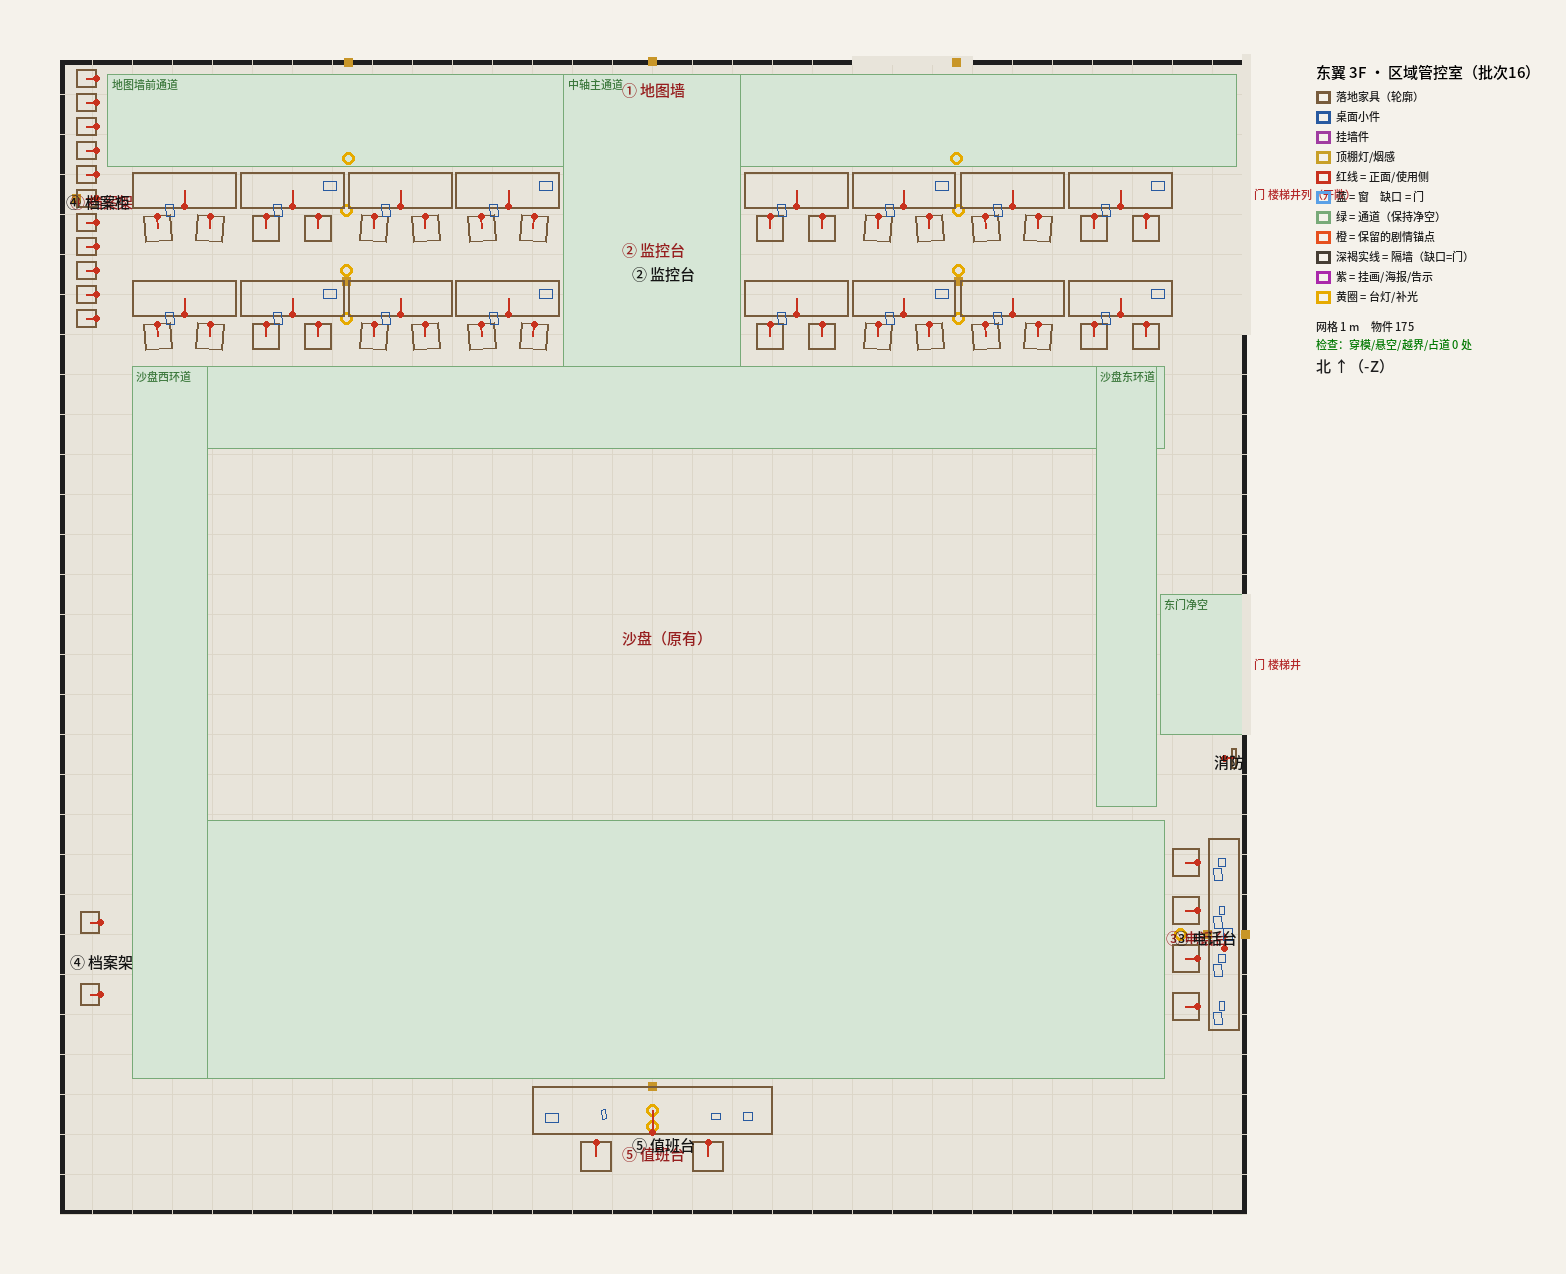
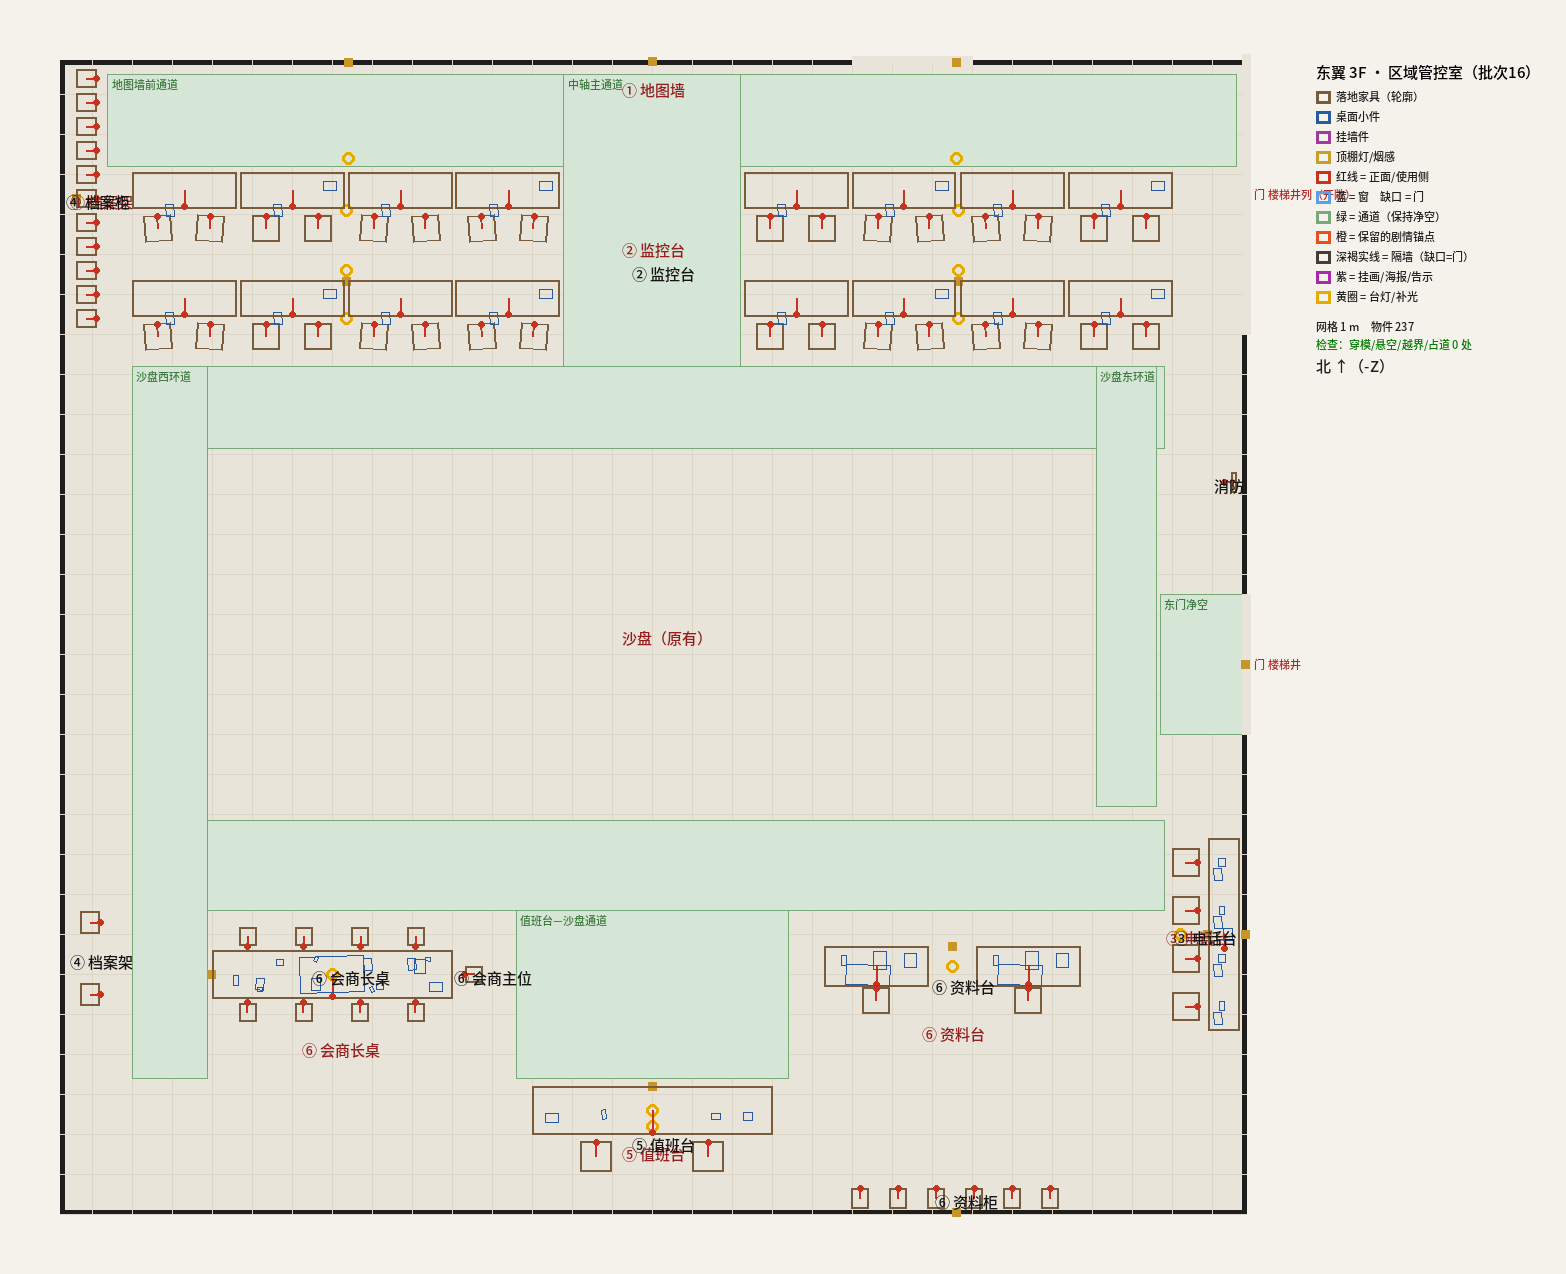
批次18：区域管控室南侧会商长桌+资料台+资料柜、东门门扇+门套+门后灯、3F 彩窗→钢框磨砂窗（r3plan 237 件 0 错）

diff --git a/src/world/r3plan.js b/src/world/r3plan.js
@@ -2384,9 +2384,9 @@ export function planZoneControl(y) {
   const room = { name: '东翼 3F · 区域管控室（批次16）', x0: 20.2, x1: 49.86, z0: -60.86, z1: -32.0, y, H,
     doors: [{ wall: 'E', a: -47.5, b: -44, label: '楼梯井' }, { wall: 'E', a: -61, b: -54, label: '楼梯井列（开敞）' }, { wall: 'N', a: 40, b: 43, label: '副本投放调度室' }],
     windows: [],
-    rooms: [['① 地图墙', 35, -60.2], ['② 监控台', 35, -56.2], ['③ 电话台', 48.6, -39.0], ['④ 档案架', 21.2, -57.4], ['⑤ 值班台', 35, -33.6], ['沙盘（原有）', 35, -46.5]],
+    rooms: [['① 地图墙', 35, -60.2], ['② 监控台', 35, -56.2], ['③ 电话台', 48.6, -39.0], ['④ 档案架', 21.2, -57.4], ['⑤ 值班台', 35, -33.6], ['沙盘（原有）', 35, -46.5], ['⑥ 会商长桌', 27, -36.2], ['⑥ 资料台', 42.5, -36.6]],
     aisles: [{ label: '地图墙前通道', x0: 21.4, x1: 49.6, z0: -60.5, z1: -58.2 }, { label: '中轴主通道', x0: 32.8, x1: 37.2, z0: -60.5, z1: -51.2 },
-      { label: '沙盘北环道', x0: 22.2, x1: 47.8, z0: -53.2, z1: -51.15 }, { label: '沙盘南环道', x0: 22.2, x1: 47.8, z0: -41.85, z1: -35.4 },
+      { label: '沙盘北环道', x0: 22.2, x1: 47.8, z0: -53.2, z1: -51.15 }, { label: '沙盘南环道', x0: 22.2, x1: 47.8, z0: -41.85, z1: -39.6 }, { label: '值班台—沙盘通道', x0: 31.6, x1: 38.4, z0: -39.6, z1: -35.4 },
       { label: '沙盘西环道', x0: 22.0, x1: 23.9, z0: -53.2, z1: -35.4 }, { label: '沙盘东环道', x0: 46.1, x1: 47.6, z0: -53.2, z1: -42.2 },
       { label: '东门净空', x0: 47.7, x1: 49.8, z0: -47.5, z1: -44 }] };
   floorZ(out, 'r3_marbleHoned', 20.3, 49.84, -60.6, -32.4, y, { border: 0.3, bmat: 'r3_stoneBorder', uv: 0.5 });
@@ -2449,7 +2449,45 @@ export function planZoneControl(y) {
     out.push({ sign: '值 班 台', sub: '交接班须签字登记', x: 35, y: y + 0.7, z: cz - 0.61, yaw: ROT.N, size: [0.34, 0.12, 0.01], tag: '铜牌', on: 'sign' });
     hang(out, '值 班 台', 35, y + 3.6, cz, 0, 1.9, 0.42, y + H);
     light(out, 35, y + 3.0, cz + 0.4, 0xfff0dc, 1.2, 6); }
-  out.push({ m: 'r2/fire_extinguisher', x: 49.55, y, z: -43.4, yaw: ROT.W, h: 0.6, tag: '消防', on: 'floor' });
+  out.push({ m: 'r2/fire_extinguisher', x: 49.55, y, z: -50.3, yaw: ROT.W, h: 0.6, tag: '消防', on: 'floor' }); // 批次18：原 −43.4 让位给东门南门扇
+  // ⑥ 批次18：南侧环道外 6 m 空地补成组陈设（zone_r3_b 看图：沙盘与值班台之间大片空地）。
+  //   西组 会商长桌（x 23.6…30.4，z −38.6…−37.4）：长桌垂直于沙盘、两侧各 4 把实木椅 + 东端主位；桌上摊开区域图、文件夹、茶杯、烟灰缸、台灯。
+  //   东组 资料台（x 39…46.2）：两张斜面资料台并排（台面放分片册子 / 图纸）+ 南墙一排 6 只铁皮资料柜 + 铜牌。中段 x 31.5…38.5 留给值班台 ↔ 沙盘通道。
+  { const cx = 27.0, cz = -38.0, top = y + 0.76;
+    out.push({ m: 'r2/conference_table_rectangular_6m', x: cx, y, z: cz, yaw: 0, fit: [6.0, 0.76, 1.2], tag: '⑥ 会商长桌', on: 'floor', col: [6.0, 0.78, 1.2] });
+    for (let i = 0; i < 4; i++) { const x = cx - 2.1 + i * 1.4;
+      out.push({ m: 'r4/exam_chair', x, y, z: cz - 0.95, yaw: 0, h: 0.84, tag: '⑥ 会商长桌', on: 'floor' });
+      out.push({ m: 'r4/exam_chair', x, y, z: cz + 0.95, yaw: Math.PI, h: 0.84, tag: '⑥ 会商长桌', on: 'floor' });
+      out.push({ m: 'r2/coffee_mug', x: x + 0.3, y: top, z: cz + (i % 2 ? -0.38 : 0.38), yaw: i, h: 0.095, tag: '⑥ 茶杯', on: 'desk' }); }
+    out.push({ m: 'r4/exam_chair', x: cx + 3.55, y, z: cz, yaw: ROT.W, h: 0.84, tag: '⑥ 会商主位', on: 'floor' });
+    out.push({ box: 'r3_mapPaper', x: cx, y: top + 0.003, z: cz, w: 1.6, h: 0.004, d: 0.9, yaw: 0.04, tag: '⑥ 摊开区域图', on: 'desk' });
+    for (const [dx, dz, m, o] of [[-2.4, 0.15, 'r2/several_folders', { h: 0.3 }], [2.2, -0.2, 'r2/document_letter_tray_documents_organizer', { w: 0.3 }], [1.2, 0.3, 'r2/ptish_exceptionally_full_ashtray', { w: 0.16 }], [-1.3, -0.3, 'r2/ptish_exceptionally_full_ashtray', { w: 0.16 }], [2.6, 0.32, 'r2/bankers_lamp', { h: 0.36 }]])
+      out.push({ m, x: cx + dx, y: top, z: cz + dz, yaw: Math.PI, ...o, tag: '⑥ 会商长桌', on: 'desk' });
+    for (const dx of [-1.8, -0.4, 0.9, 2.0]) out.push({ box: 'dz_paper', x: cx + dx, y: top + 0.003, z: cz + (dx > 0 ? -0.25 : 0.25), w: 0.21, h: 0.004, d: 0.297, yaw: dx * 0.05, tag: '⑥ 会商记录', on: 'desk' });
+    out.push({ sign: '会 商 桌', sub: '跨片区联合研判', x: cx - 3.02, y: y + 0.55, z: cz, yaw: ROT.W, size: [0.34, 0.12, 0.01], tag: '铜牌', on: 'sign' });
+    hang(out, '联 合 会 商', cx, y + 3.6, cz, 0, 1.9, 0.42, y + H);
+    light(out, cx, y + 2.8, cz, 0xfff0dc, 1.3, 6); }
+  { const cz = -38.2, top = y + 0.9;
+    for (const cx of [40.6, 44.4]) {
+      out.push({ m: 'r2/woodentable_01', x: cx, y, z: cz, yaw: 0, fit: [2.6, 0.9, 1.0], tag: '⑥ 资料台', on: 'floor', col: [2.6, 0.92, 1.0] });
+      for (const [dx, m, o] of [[-0.8, 'r2/several_folders', { h: 0.3 }], [0.1, 'r2/medieval_book_stack', { w: 0.34 }], [0.85, 'r2/document_letter_tray_documents_organizer', { w: 0.3 }]]) out.push({ m, x: cx + dx, y: top, z: cz - 0.15, yaw: Math.PI, ...o, tag: '⑥ 资料台', on: 'desk' });
+      out.push({ box: 'r3_mapPaper', x: cx - 0.2, y: top + 0.003, z: cz + 0.22, w: 1.1, h: 0.004, d: 0.5, yaw: -0.03, tag: '⑥ 图纸', on: 'desk' });
+      out.push({ m: 'r2/old_computer_chair', x: cx, y, z: cz + 0.85, yaw: Math.PI, h: 0.92, tag: '⑥ 资料台', on: 'floor' }); }
+    out.push({ sign: '资 料 台', sub: '分片册 · 图纸 · 阅后归位', x: 42.5, y: y + 0.6, z: cz - 0.51, yaw: 0, size: [0.34, 0.12, 0.01], tag: '铜牌', on: 'sign' });
+    for (let i = 0; i < 6; i++) { const x = 40.2 + i * 0.95;
+      out.push({ m: 'file_cabinet', x, y, z: -32.4, yaw: ROT.N, h: 1.32, tag: '⑥ 资料柜', on: 'floor', col: [0.7, 1.32, 0.5] }); }
+    out.push({ sign: '分 片 资 料', sub: '甲—己 六片 · 按号取阅', x: 42.6, y: y + 1.75, z: -32.06, yaw: Math.PI, size: [0.34, 0.12, 0.01], tag: '铜牌', on: 'sign' });
+    light(out, 42.5, y + 2.8, cz, 0xfff0dc, 1.2, 6); }
+  // ⑦ 批次18：东门（楼梯井门洞 z −44…−47.5）原是一块纯黑洞 → 钢门套 + 两扇木门扇向室内开到 180° 贴墙 + 门后走廊吸顶灯
+  { const X = 49.8, a = -44, b = -47.5;
+    for (const z of [a + 0.04, b - 0.04]) out.push({ box: 'r3_steelOld', x: X, y: y + 1.52, z, w: 0.16, h: 3.04, d: 0.08, tag: '⑦ 门套', on: 'partv' });
+    out.push({ box: 'r3_steelOld', x: X, y: y + 3.0, z: (a + b) / 2, w: 0.16, h: 0.08, d: 3.6, tag: '⑦ 门套', on: 'partv' });
+    for (const [z0, sg] of [[a, 1], [b, -1]]) { const zc = z0 + sg * 0.875;
+      out.push({ box: 'dz_wain2', x: 49.72, y: y + 1.45, z: zc, w: 0.05, h: 2.9, d: 1.72, uv: 0.6, tag: '⑦ 门扇', on: 'partv' });
+      for (const yy of [0.8, 2.1]) out.push({ box: 'dz_wain', x: 49.685, y: y + yy, z: zc, w: 0.02, h: 0.95, d: 1.3, uv: 0.6, tag: '⑦ 门扇芯板', on: 'partv' });
+      out.push({ box: 'dz_brassDim', x: 49.67, y: y + 1.05, z: zc + sg * 0.7, w: 0.04, h: 0.24, d: 0.03, tag: '⑦ 拉手', on: 'partv' });
+      out.push({ box: 'dz_brassDim', x: 49.69, y: y + 0.08, z: zc, w: 0.02, h: 0.16, d: 1.72, tag: '⑦ 踢板', on: 'partv' }); }
+    out.push({ sign: '楼 梯 间', sub: '通往东侧楼梯 · 随手关门', x: 49.83, y: y + 3.3, z: (a + b) / 2, yaw: ROT.W, size: [0.34, 0.12, 0.01], tag: '铜牌', on: 'sign' }); }
   return { room, items: out };
 }
 PLANS.zone_control = (Y) => fixYaw(planZoneControl(Y)); R3.zone_control = true;

diff --git a/src/world/eastwing.js b/src/world/eastwing.js
@@ -71,7 +71,15 @@ export function buildEastWing(scene, world, ctx) {
   }
   // 窗（外墙内侧发光）
   for (const fy of [Y, F2, F3]) for (let k = 0; k < 5; k++) {
-    const z = -36 - k * 8.6; const f = new Frame([X1 - 0.01, fy, z], -Math.PI / 2);
+    const z = -36 - k * 8.6;
+    if (fy === F3 && R3.zone_control) { // 批次18：3F 哥特彩窗（zone_r3_b 里与 70 年代管控室冲突）→ 钢框磨砂窗：磨砂玻璃 + 4×3 钢棂 + 水泥窗台
+      const gl = new THREE.Mesh(new THREE.PlaneGeometry(1.6, 2.6), new THREE.MeshStandardMaterial({ color: 0x8a918d, emissive: 0xc8d0cc, emissiveIntensity: 0.32, roughness: 0.5 })); gl.position.set(X1 - 0.03, fy + 2.4, z); gl.rotation.y = -Math.PI / 2; zone.add(gl);
+      for (const dz of [-0.82, -0.41, 0, 0.41, 0.82]) b.box('blackMetal', 0.06, 2.68, dz === -0.82 || dz === 0.82 ? 0.08 : 0.035, [X1 - 0.05, fy + 2.4, z + dz], { uv: 1 });
+      for (const dy of [-1.32, -0.65, 0, 0.65, 1.32]) b.box('blackMetal', 0.06, Math.abs(dy) > 1.3 ? 0.08 : 0.035, 1.72, [X1 - 0.05, fy + 2.4 + dy, z], { uv: 1 });
+      b.box('stoneDark', 0.22, 0.08, 1.9, [X1 - 0.11, fy + 1.06, z], { uv: 0.5 });
+      if (k === 1) point(zone, 0xfff0dc, 6, [53, fy + 2.9, -45.75], 9); // 东门后楼梯间吸顶灯（门洞不再是纯黑）
+      continue; }
+    const f = new Frame([X1 - 0.01, fy, z], -Math.PI / 2);
     b.add('glassIn', new THREE.ShapeGeometry(archShape(1.6, 2.6)), f.at(0, 2.0, 0), { uv: false });
     b.add('gold', archRingGeo(1.8, 2.6, 1.6, 2.6, 0.2), f.at(0, 2.0, 0.05), { uv: 1 });
   }
